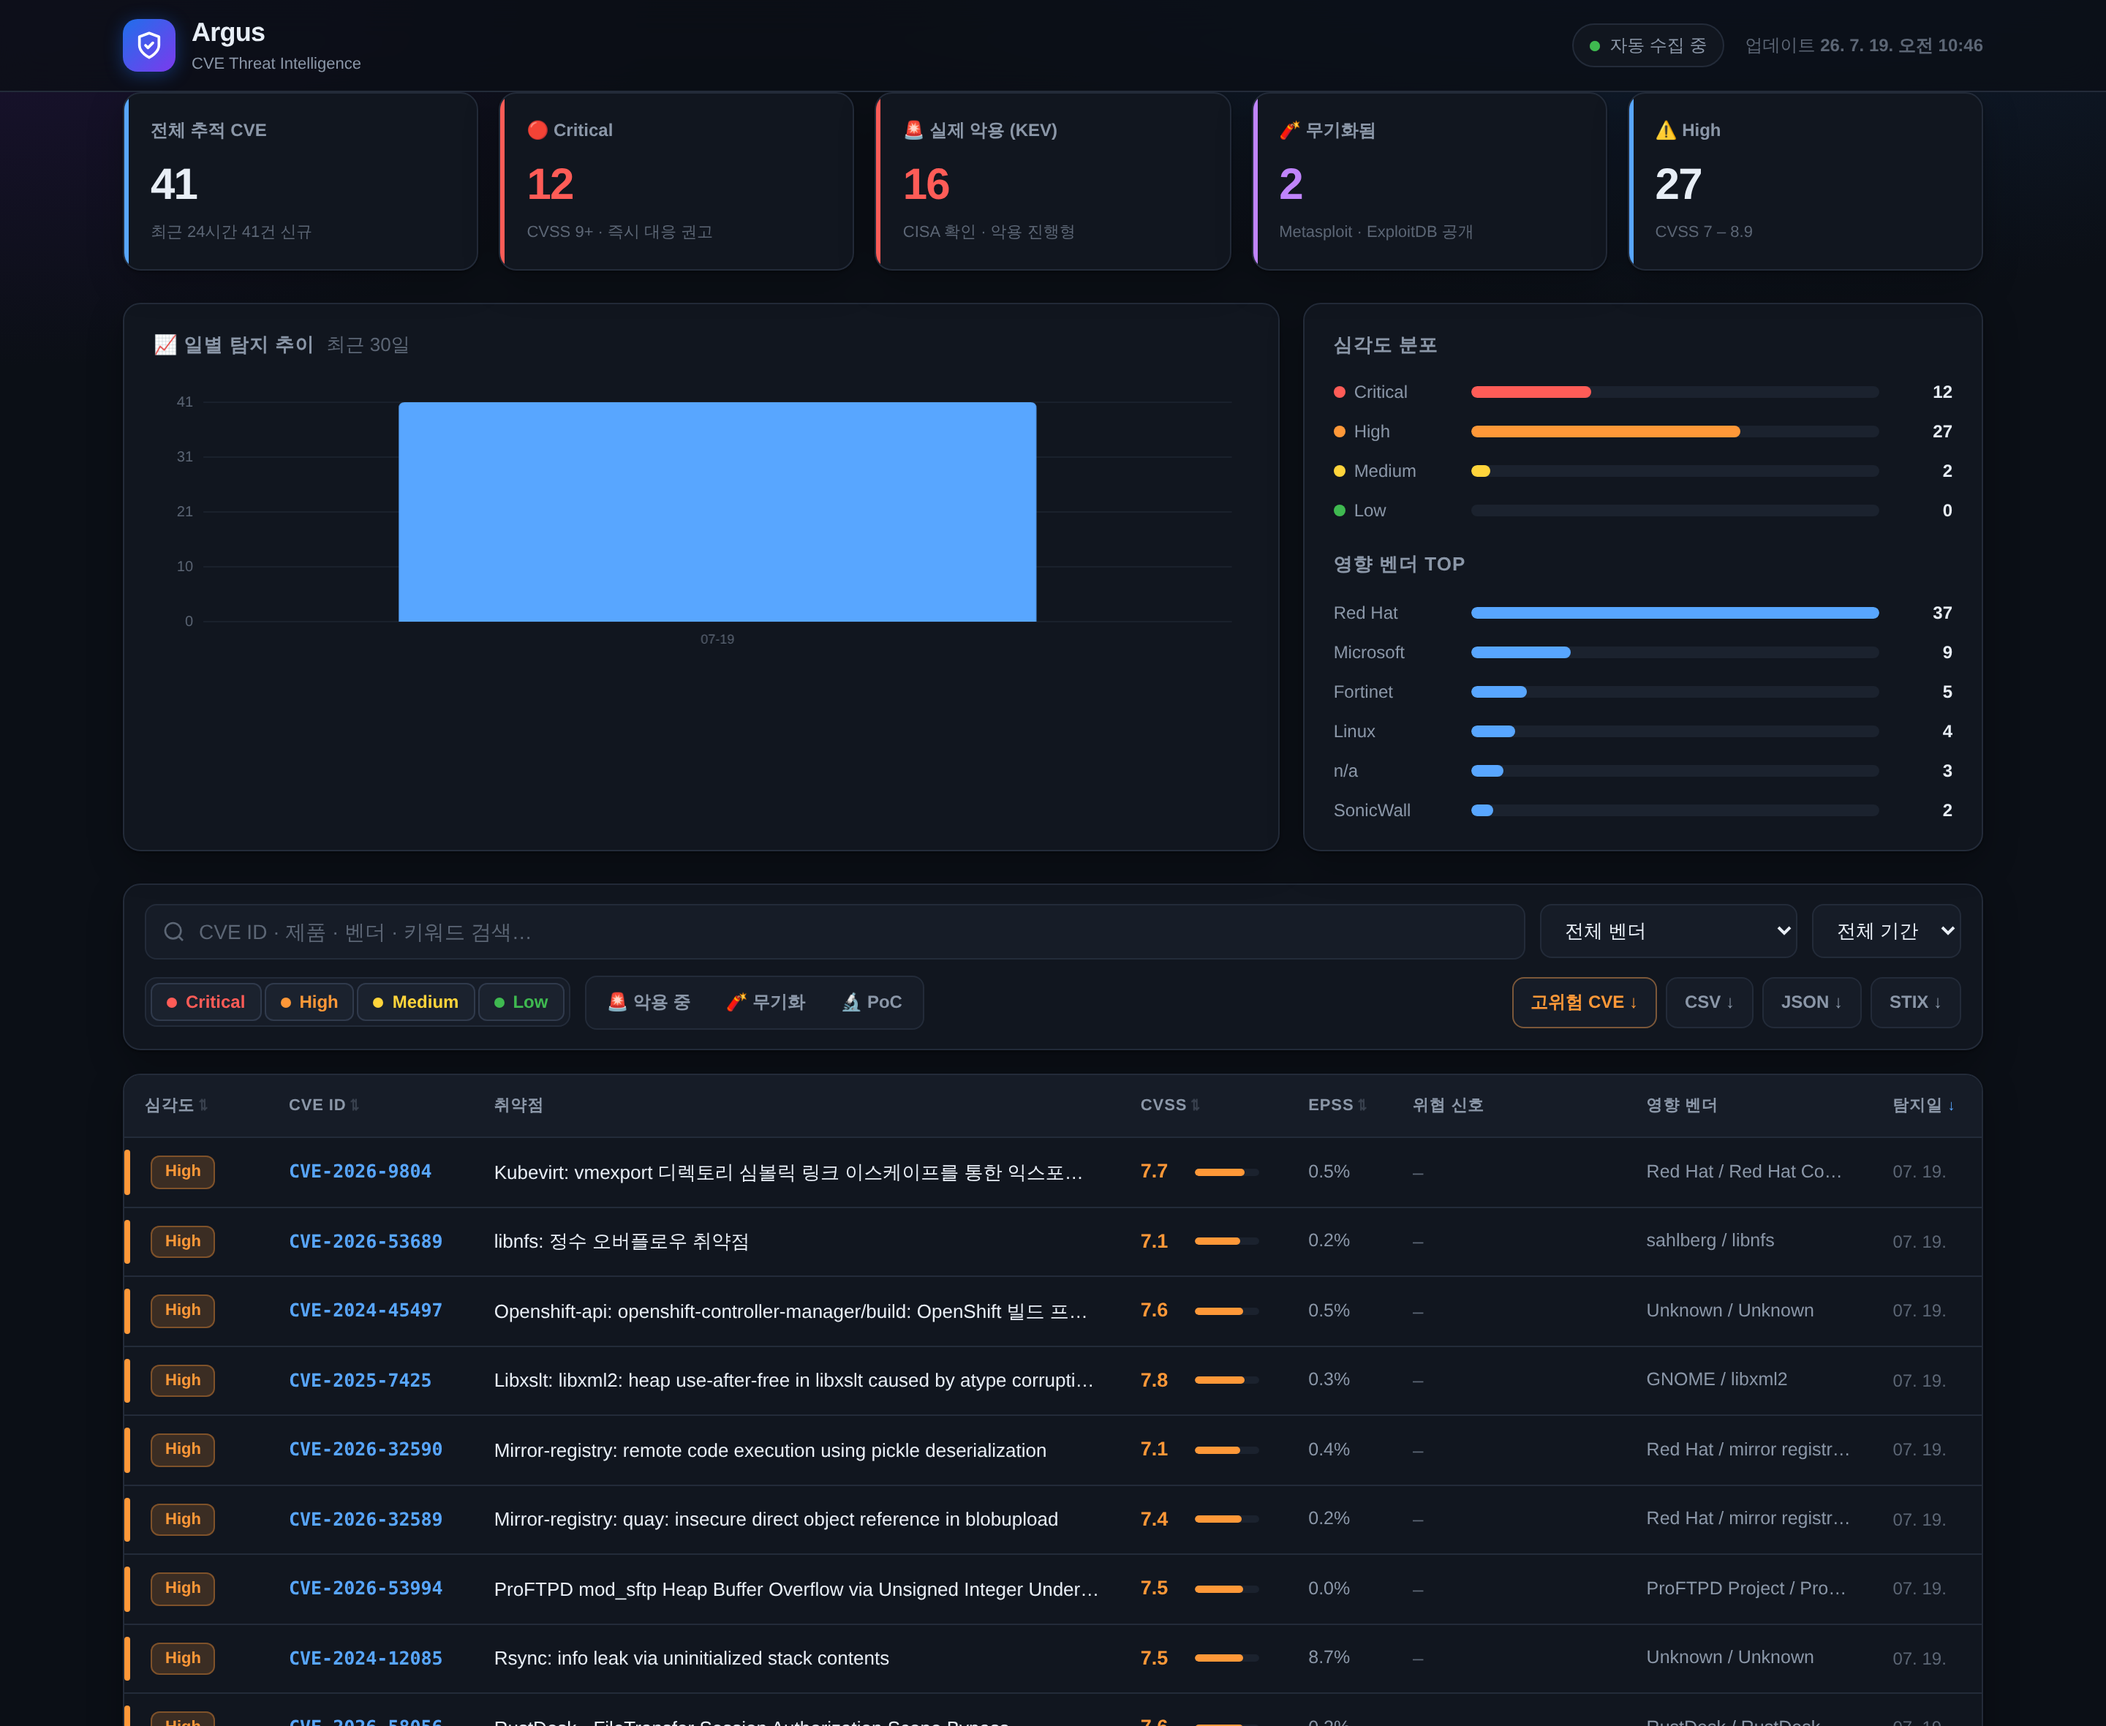
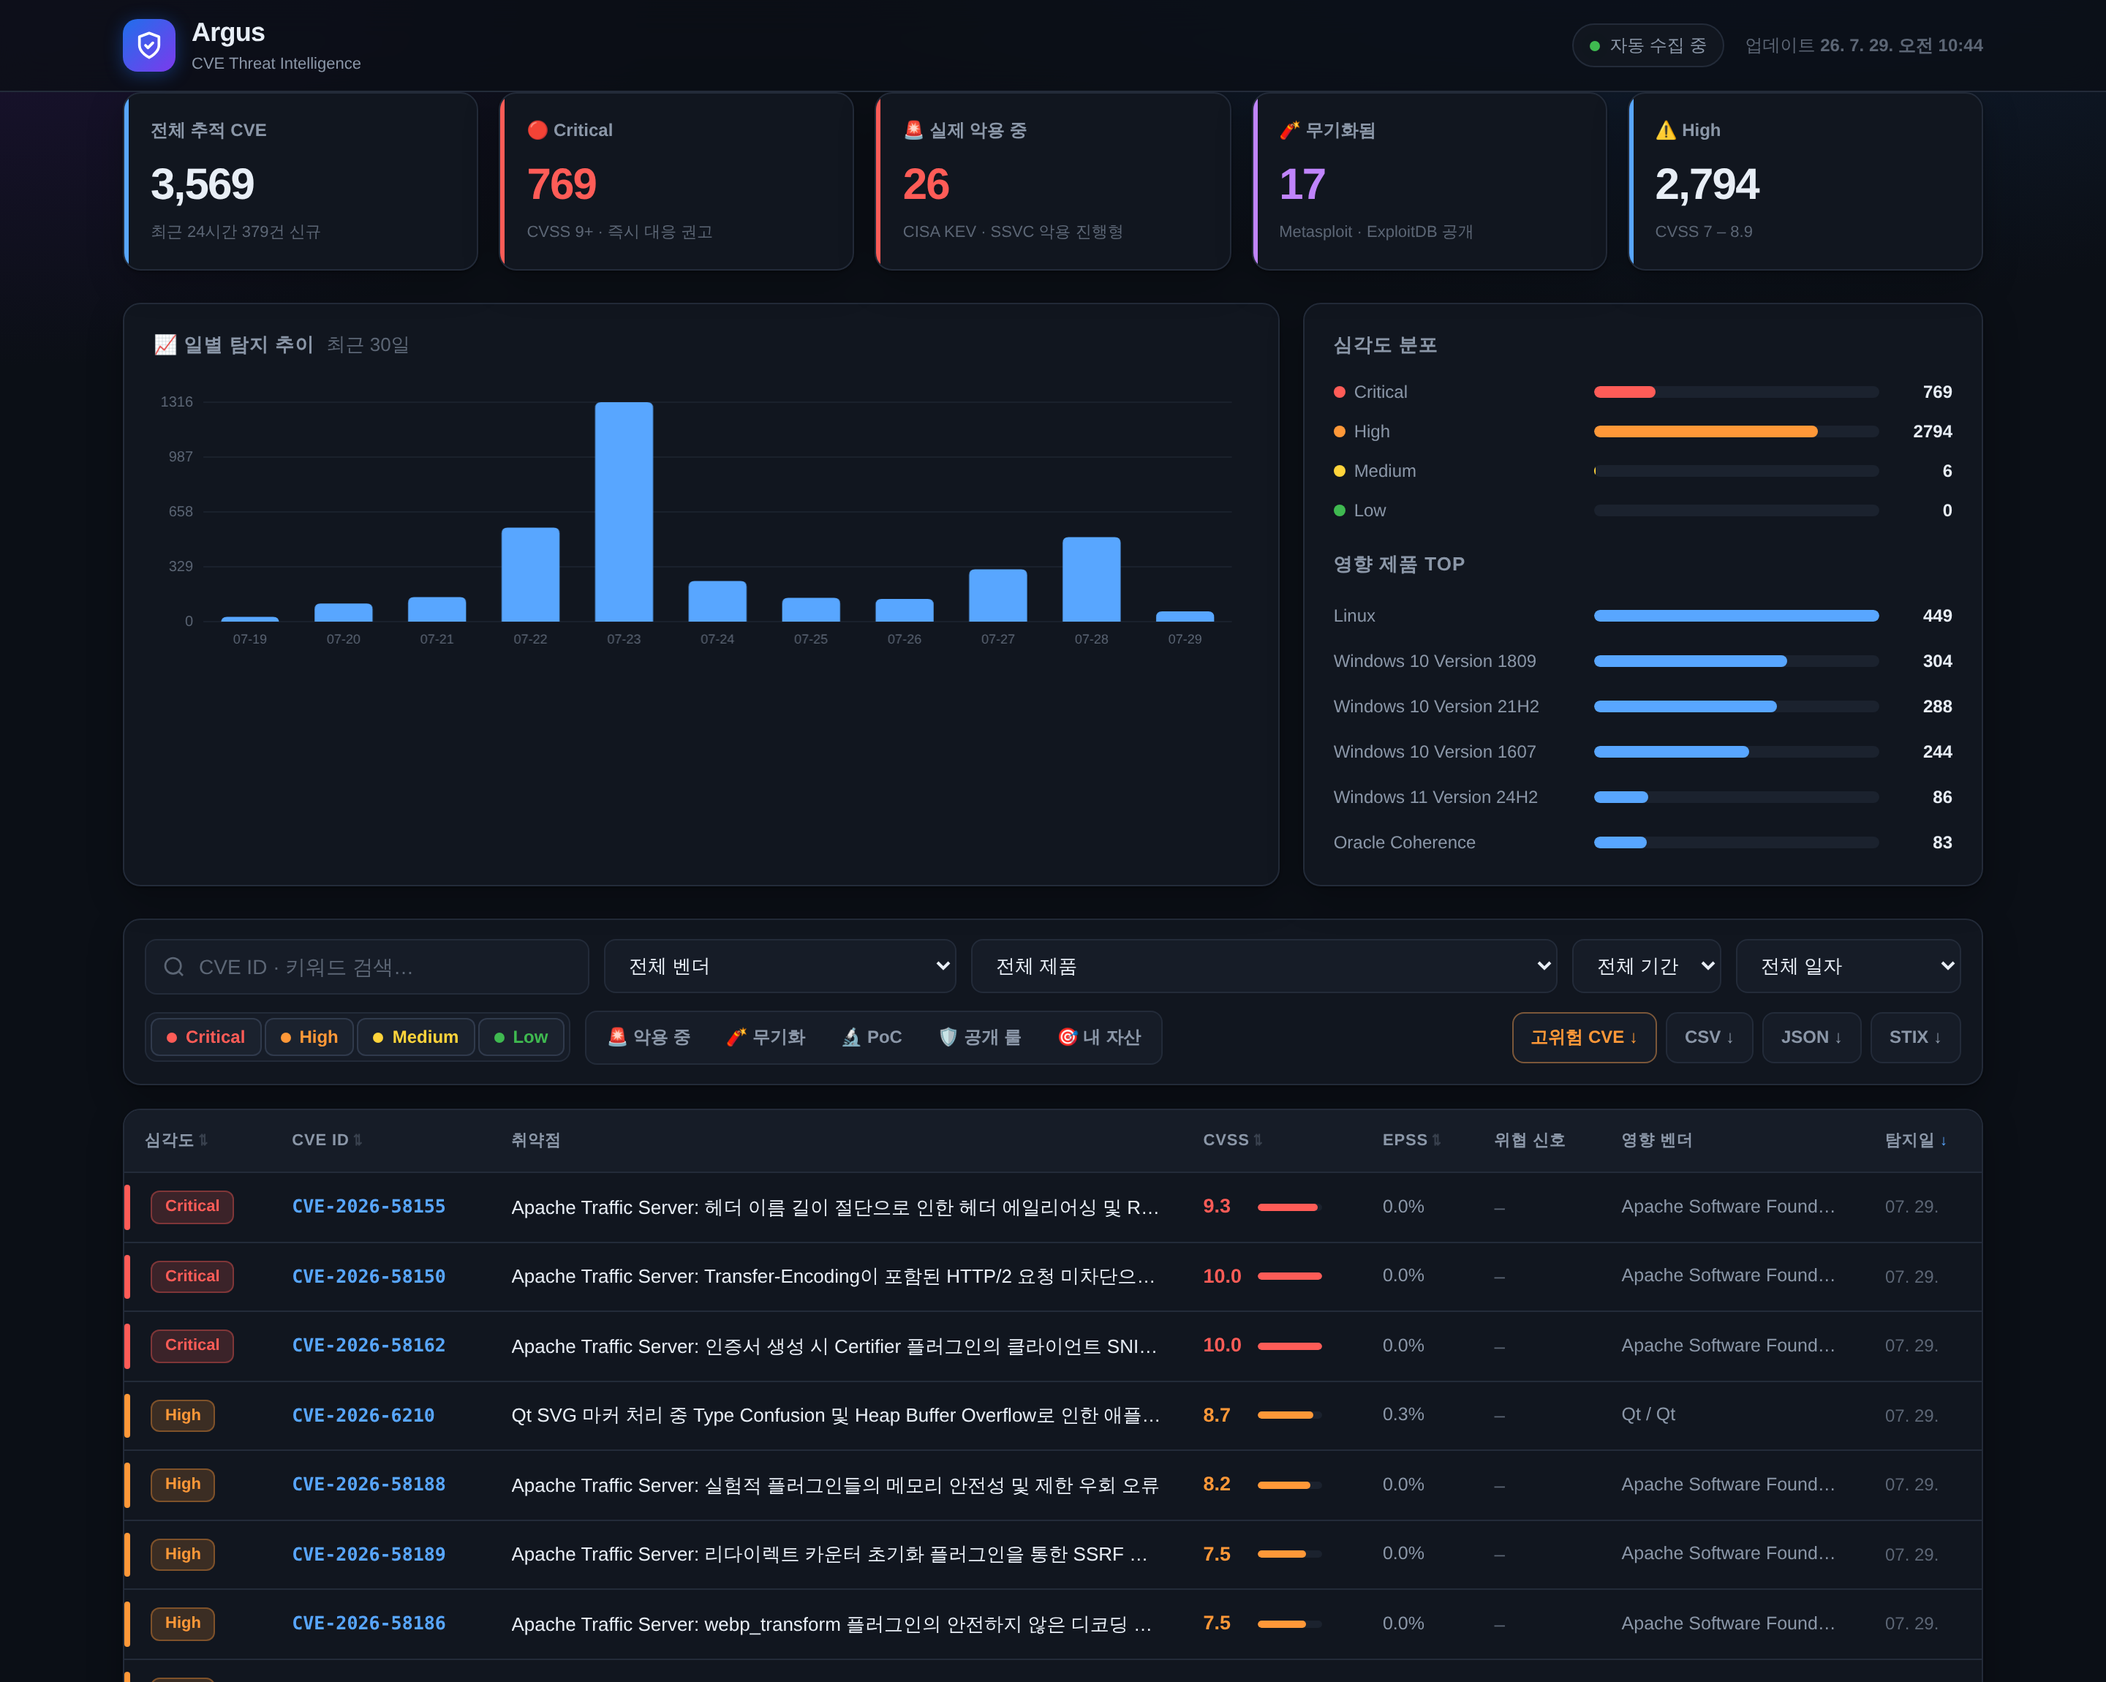
docs: README를 '업무 자동화' 관점으로 전면 재작성 + 대시보드 스크린샷 갱신
기능 나열식 소개에서, 실무자가 겪은 문제와 그 해결로 서술 관점을 바꿨다.

- '왜 만들었나': 보안 업무 중 CVE 한 건마다 NVD·KEV·EPSS·ExploitDB·Metasploit·
  GitHub Advisory·SigmaHQ를 순회하던 반복 작업과, 하루 수백~수천 건 중 대응 대상
  몇 건을 찾기 위해 전부를 훑어야 했던 비효율을 자동화 동기로 서술
- '무엇이 달라졌나': 수작업 대비 자동화 결과를 6개 항목으로 대비
- 구현 방식(바이브 코딩)은 배경 설명 안에서 1회만 사실로 언급 — 자동화가 주제이고
  구현 수단이 주제를 가리지 않도록
- 라이브 대시보드 링크를 상단 헤딩·본문 등 4곳에 배치해 바로 접속 가능하게
- 3단계 위험도 분류표·자산 표기법(용도별 설명)·선택 API 키를 실제 동작 기준으로 정리

스크린샷: 대시보드 개편(제품/일별 필터, 제품 TOP) 이후 화면으로 재촬영.
촬영 중 발견한 UI 결함도 수정 — 제품명 칸이 좁아 'Windows 10 Version 1809/21H2/1607'이
모두 'Windows 10 Version'으로 잘려 서로 다른 제품이 같아 보이던 문제(폭 108→168px).

검증: 이미지 3개 경로·앵커 2개 유효, 대시보드 E2E 회귀 없음.

Claude-Session: https://claude.ai/code/session_01Qtv26mfVXUhSSSg6GJ5hbd

diff --git a/docs/css/style.css b/docs/css/style.css
@@ -129,7 +129,9 @@ main { padding: 28px 0 64px; }
 
 .dist-row { display: flex; align-items: center; gap: 10px; margin-bottom: 9px; font-size: 12px; }
 .dist-row:last-child { margin-bottom: 0; }
-.dist-name { width: 108px; color: var(--text-muted); display: flex; align-items: center; gap: 6px; overflow: hidden; text-overflow: ellipsis; white-space: nowrap; }
+/* 제품명은 'Windows 10 Version 1809'처럼 뒤쪽에 구분 정보가 붙는다 —
+   폭이 좁으면 앞부분만 남아 서로 다른 제품이 같은 이름으로 보인다. 넉넉히 준다. */
+.dist-name { width: 168px; color: var(--text-muted); display: flex; align-items: center; gap: 6px; overflow: hidden; text-overflow: ellipsis; white-space: nowrap; flex: none; }
 /* 제품 분포 → 클릭 시 해당 제품 필터 */
 .dist-clickable { cursor: pointer; border-radius: 6px; padding: 2px 4px; margin-left: -4px; margin-right: -4px; transition: background .12s; }
 .dist-clickable:hover { background: var(--surface-3); }
